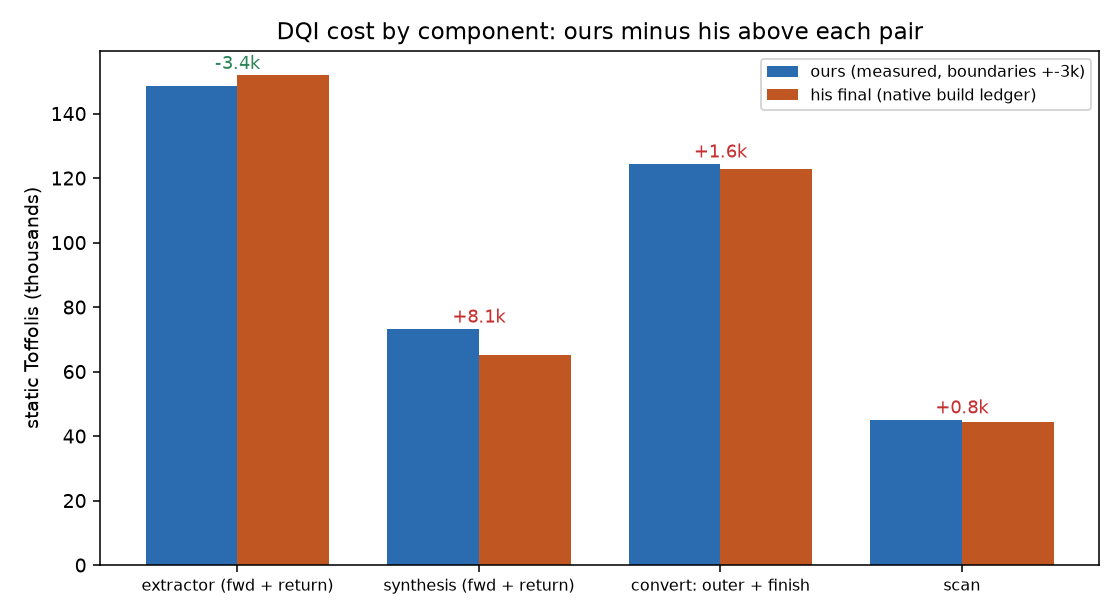
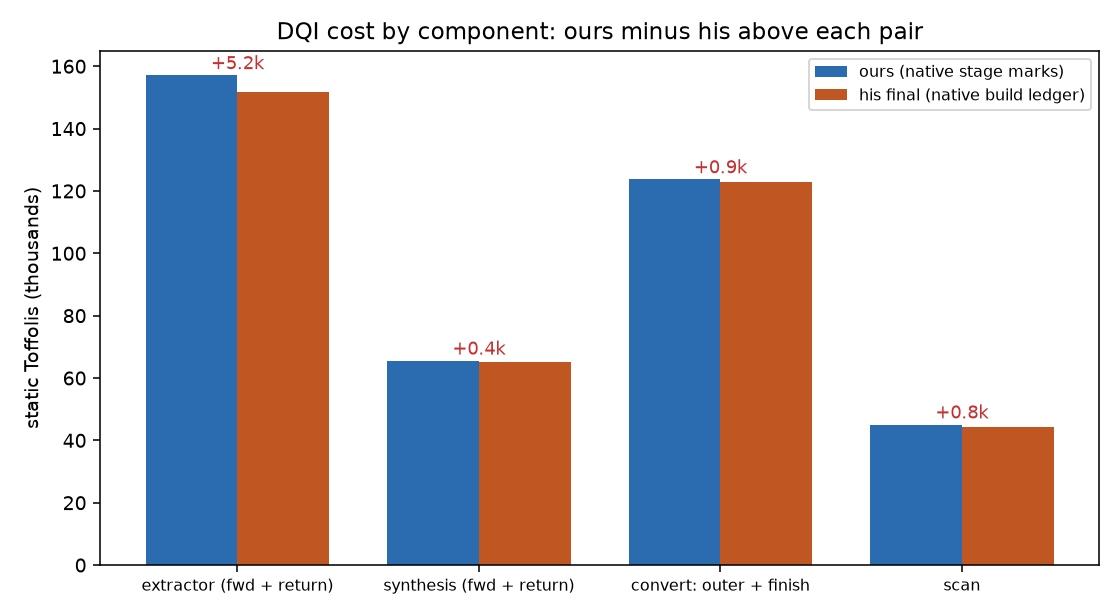
DQI: native per-stage ledger (stage marks and per-tag Toffoli counts), exact gap decomposition against the best public builder (QCC-19) (#188)

diff --git a/src/dqi_gen/fixed.py b/src/dqi_gen/fixed.py
@@ -10,9 +10,11 @@ The scan is run without the syndrome-weight gauge (no position is skipped).
 
 from __future__ import annotations
 
+import json
 import pathlib
 import sys
 import types
+from collections.abc import Callable
 from typing import Any
 
 import kickmix as km  # type: ignore[import-not-found,unused-ignore]
@@ -65,53 +67,88 @@ def _seeded_backward(builder: Any, words: list[list[Any]], carry: list[Any], rec
 
 
 def build_decoder(
-    builder: Any, syndromes: list[Any], masks: list[Any], seeded: bool = True
+    builder: Any,
+    syndromes: list[Any],
+    masks: list[Any],
+    seeded: bool = True,
+    stage: Callable[[str], None] | None = None,
 ) -> dict[str, Any]:
-    """Append the decoder to `builder`; returns static numbers of the scan."""
+    """Append the decoder to `builder`; returns static numbers of the scan.
+
+    `stage(name)` is called after each stage when given (it does not change the circuit unless it emits tags).
+    """
     import additive_fft_phase_scan as scan  # type: ignore[import-not-found]
     import night_outer as outer  # type: ignore[import-not-found]
     import projective_finish as finish  # type: ignore[import-not-found]
 
+    def mark(name: str) -> None:
+        if stage is not None:
+            stage(name)
+
     scan.syndrome_gauge_plan = lambda: types.SimpleNamespace(selected=())
     from dqi_gen.tower import apply_matrix_inplace
 
+    mark("start")
     flat = [q for reg in syndromes for q in reg]
     fwd, inv = thiele_decoder.geometry_columns()
     apply_matrix_inplace(builder, flat, fwd)
+    mark("geometry_fwd")
     words = [list(flat[24 * i : 24 * i + 24]) for i in range(35)]
     carry = list(builder.alloc_qubits(24))
     builder.x(carry[0])
     rec = extract.forward(builder, words, carry)
+    mark("extract_fwd")
     if seeded:
         n_list, d_list, state = _seeded_forward(builder, words, carry, rec)
     else:
         flag = rec.tail.current
         n_list, d_list, records, one = synth.forward(builder, words, flag)
+    mark("synthesis_fwd")
     out = outer.emit_prefix(builder, d_list, n_list, fused=False)
+    mark("outer_fwd")
     fin = finish.emit_prefix(builder, d_list, n_list)
+    mark("finish_fwd")
     padded = list(masks) + [None] * (4095 - len(masks))
     info = scan.emit(builder, d_list, n_list, padded, positions=len(masks))
+    mark("scan")
     finish.emit_closing(builder, d_list, n_list, fin)
+    mark("finish_return")
     outer.emit_closing(builder, d_list, n_list, (), out)
+    mark("outer_return")
     if seeded:
         _seeded_backward(builder, words, carry, rec, state)
+        mark("synthesis_return")
         import raw_query_extractor as rq  # type: ignore[import-not-found]
 
         rq.emit_closing(builder, words, carry, rec)
     else:
         synth.backward(builder, flag, words, records, one)
+        mark("synthesis_return")
         extract.backward(builder, words, carry, rec)
+    mark("extract_return")
     builder.x(carry[0])
     builder.free(km.array(carry))
     apply_matrix_inplace(builder, flat, inv)
+    mark("geometry_return")
     return dict(info)
 
 
-def build_circuit(m: int, n: int, degree: int) -> Any:
+def build_circuit(m: int, n: int, degree: int, stage_log: str | None = None) -> Any:
+    """The decoder circuit. With `stage_log` (a JSON path) the build also emits one `stage:<name>` INFO_TAG
+    per stage and writes the allocated-qubit count at each mark there; without it the circuit is unchanged."""
     if (n, degree) != (70, 12):
         raise ValueError("the decoder is built for n = 70 syndromes over GF(2^12)")
     builder = km.CircuitBuilder()
     syndromes = [builder.create_quantum_register(degree, name=f"S{i}") for i in range(n)]
     masks = [builder.create_classical_register(degree, name=f"E{j}") for j in range(m)]
-    build_decoder(builder, syndromes, masks)
+    marks: list[dict[str, Any]] = []
+
+    def stage(name: str) -> None:
+        builder.info_tag(f"stage:{name}")
+        marks.append({"stage": name, "allocated_Q": builder.num_allocated_qubits})
+
+    build_decoder(builder, syndromes, masks, stage=stage if stage_log else None)
+    if stage_log:
+        with open(stage_log, "w") as f:
+            json.dump(marks, f, indent=1)
     return builder.finish_circuit()

diff --git a/analysis/dqi_figures.py b/analysis/dqi_figures.py
@@ -32,7 +32,7 @@ def stage_ledger(d: dict) -> plt.Figure:  # type: ignore[type-arg]
     fig, ax = plt.subplots(figsize=(8, 4.4))
     x = range(len(names))
     w = 0.38
-    ax.bar([i - w / 2 for i in x], ours, w, label="ours (measured, boundaries +-3k)", color=OURS)
+    ax.bar([i - w / 2 for i in x], ours, w, label="ours (native stage marks)", color=OURS)
     ax.bar([i + w / 2 for i in x], theirs, w, label="his final (native build ledger)", color=THEIRS)
     for i, (o, t) in enumerate(zip(ours, theirs, strict=True)):
         ax.text(i, max(o, t) + 2, f"{o - t:+.1f}k", ha="center", fontsize=9, color=BAD if o > t else GOOD)
@@ -40,6 +40,25 @@ def stage_ledger(d: dict) -> plt.Figure:  # type: ignore[type-arg]
     ax.set_ylabel("static Toffolis (thousands)")
     ax.set_title("DQI cost by component: ours minus his above each pair")
     ax.legend(fontsize=8)
+    fig.tight_layout()
+    return fig
+
+
+def ours_stages(d: dict) -> plt.Figure:  # type: ignore[type-arg]
+    s = d["ours_native_stages"]["stages"]
+    s = [x for x in s if x["stage"] not in {"start", "geometry_fwd", "geometry_return"}]
+    names = [x["stage"].replace("_", " ") for x in s]
+    vals = [x["toffoli"] / 1000 for x in s]
+    colors = [GOOD if "return" in x["stage"] else OURS for x in s]
+    fig, ax = plt.subplots(figsize=(8, 4.6))
+    ax.barh(range(len(s)), vals, color=colors)
+    for i, (v, x) in enumerate(zip(vals, s, strict=True)):
+        ax.text(v + 0.8, i, f"{v:.1f}k  Q={x['allocated_Q']}", va="center", fontsize=8)
+    ax.set_yticks(range(len(s)), names, fontsize=8)
+    ax.invert_yaxis()
+    ax.set_xlim(0, max(vals) * 1.3)
+    ax.set_xlabel("static Toffolis per stage (narrow instance; scan here is 71 positions, full is 45.0k)")
+    ax.set_title("Our circuit by stage, native marks: forward (blue) and return (green)")
     fig.tight_layout()
     return fig
 
@@ -156,6 +175,7 @@ def j_min_sweep(d: dict) -> plt.Figure:  # type: ignore[type-arg]
 
 FIGURES = {
     "dqi-stage-ledger": stage_ledger,
+    "dqi-ours-stages": ours_stages,
     "dqi-qubit-timeline": qubit_timeline,
     "dqi-v7-waterfall": patch_waterfall,
     "dqi-profile-diff": profile_diff,

diff --git a/src/dqi_gen/instances.py b/src/dqi_gen/instances.py
@@ -61,8 +61,9 @@ def min_shots(log2_delta: float = LOG2_DELTA) -> int:
     return math.ceil(need / BATCH) * BATCH
 
 
-def build(generator: str, inst: Instance) -> Any:
-    """The decoder circuit for `inst` from the named generator (`reference` or `divstep`)."""
+def build(generator: str, inst: Instance, stage_log: str | None = None) -> Any:
+    """The decoder circuit for `inst` from the named generator. `stage_log` (generator `fixed` only) tags the
+    circuit per stage and writes the allocated qubits at each stage mark to that JSON file."""
     builders: dict[str, Callable[[int, int, int], Any]] = {}
     builders["reference"] = lambda m, n, b: host.reference().build_reference_circuit(m, n, b)
 
@@ -92,7 +93,7 @@ def build(generator: str, inst: Instance) -> Any:
     builders["thiele"] = thiele
 
     def fixed(m: int, n: int, b: int) -> Any:
-        return importlib.import_module("dqi_gen.fixed").build_circuit(m, n, b)
+        return importlib.import_module("dqi_gen.fixed").build_circuit(m, n, b, stage_log=stage_log)
 
     builders["fixed"] = fixed
     if generator not in builders:
@@ -127,10 +128,16 @@ def main() -> None:
     p.add_argument("--shots", type=int, default=None)
     p.add_argument("--salts", type=int, default=1, help="verify under this many salts (build once)")
     p.add_argument("--save", help="also write the circuit here as .kmb (binary)")
+    p.add_argument(
+        "--stage-log",
+        help="generator fixed: tag the circuit per stage and write allocated qubits per stage here (JSON)",
+    )
     p.add_argument("--sha", action="store_true", help="print the sha256 of the .kmb file")
     a = p.parse_args()
     inst = INSTANCES[a.instance]
-    circuit = build(a.gen, inst)
+    if a.stage_log and a.gen != "fixed":
+        raise SystemExit("--stage-log needs --gen fixed")
+    circuit = build(a.gen, inst, stage_log=a.stage_log)
     digest = None
     if a.sha or a.save:
         with tempfile.TemporaryDirectory() as tmp:

diff --git a/src/dqi_gen/study.py b/src/dqi_gen/study.py
@@ -31,6 +31,8 @@ def scan(lines: Iterable[str], window: int = 200_000, block: int = 12) -> dict[s
     tof_touch: collections.Counter[int] = collections.Counter()
     wins: list[dict[str, Any]] = []
     tags: list[tuple[int, str]] = []
+    tag_cum: list[tuple[str, int, int]] = []  # (tag, instruction index, Toffoli-like gates so far)
+    total_tof = 0
     cur_tof = 0
     cur_ids: set[int] = set()
     stack: list[str] = []
@@ -54,6 +56,7 @@ def scan(lines: Iterable[str], window: int = 200_000, block: int = 12) -> dict[s
                     stack.pop()
                 if len(tags) < 400:
                     tags.append((i, name))
+                    tag_cum.append((name, i, total_tof))
         elif op not in ("APPEND_TO_REGISTER", "REGISTER"):
             ids = [int(x) for x in QRE.findall(line)]
             for q in ids:
@@ -67,6 +70,7 @@ def scan(lines: Iterable[str], window: int = 200_000, block: int = 12) -> dict[s
                     prec["toffoli"] += 1
             if op in TOFFOLI:
                 cur_tof += 1
+                total_tof += 1
                 for q in ids:
                     tof_touch[q] += 1
         if (i + 1) % window == 0:
@@ -87,6 +91,8 @@ def scan(lines: Iterable[str], window: int = 200_000, block: int = 12) -> dict[s
         "windows": wins,
         "blocks": {str(k): v for k, v in blocks.items()},
         "tags": tags,
+        "tag_cum": tag_cum,
+        "total_toffoli": total_tof,
         "paths": {
             k: {"enter": v["enter"], "toffoli": v["toffoli"], "first": v["first"], "qubits": len(v["ids"])}
             for k, v in paths.items()

diff --git a/tests/unit/test_analysis_dqi.py b/tests/unit/test_analysis_dqi.py
@@ -21,7 +21,16 @@ def test_data_is_internally_consistent() -> None:
         t = d["totals"][key]
         assert m[side]["CCX"] + m[side]["CCZ"] + m[side]["CSWAP"] == t["toffoli_like"]
     comps = d["stage_ledger"]["components"]
-    assert abs(sum(c["ours"] for c in comps) - d["stage_ledger"]["ours_total"]) < 600
+    assert (
+        sum(c["ours"] for c in comps)
+        == d["stage_ledger"]["ours_total"]
+        == d["totals"]["ours"]["toffoli_like"]
+    )
+    n = d["ours_native_stages"]
+    assert sum(x["toffoli"] for x in n["stages"]) == n["total_narrow"]
+    assert (
+        n["total_narrow"] - n["scan_narrow"] + n["scan_full_instance"] == d["totals"]["ours"]["toffoli_like"]
+    )
     assert sum(c["theirs_v2"] for c in comps) == d["stage_ledger"]["theirs_v2_total"]
     assert sum(c["theirs_final"] for c in comps) == d["stage_ledger"]["theirs_final_total"]
     assert d["stage_ledger"]["theirs_final_total"] == d["totals"]["theirs"]["toffoli_like"]

diff --git a/tests/unit/test_dqi_study.py b/tests/unit/test_dqi_study.py
@@ -19,3 +19,17 @@ def test_scan_counts_toffolis_and_blocks() -> None:
     assert sum(w["toffoli"] for w in r["windows"]) == 2
     assert r["blocks"]["0"]["toffoli_touches"] == 4  # q0 q1 q2 (CCX) and q3 (CSWAP)
     assert r["tags"] == [(0, "@enter:a")]
+
+
+def test_tag_cum_counts_toffolis_between_tags() -> None:
+    lines = [
+        'INFO_TAG "stage:a"\n',
+        "CCX q0 q1 q2\n",
+        "CX q0 q1\n",
+        'INFO_TAG "stage:b"\n',
+        "CCZ q0 q1 q2\n",
+        "CSWAP q0 q1 q2\n",
+    ]
+    r = scan(lines)
+    assert [(n, c) for n, _, c in r["tag_cum"]] == [("stage:a", 0), ("stage:b", 1)]
+    assert r["total_toffoli"] == 3

diff --git a/docs/experiments/dqi-syed-decode.md b/docs/experiments/dqi-syed-decode.md
@@ -13,8 +13,8 @@ Paths below are inside its `dqi_source/src/controller_work/`. Numbers behind eve
   the newer `after_v3` / `after_c5` lineage (`after_v3/integration_v7/v7_pipeline.py:28-80`).
 * [V] Three configuration choices we worried about are **not** the lever: `fused=False` (`v7_pipeline.py:288-289`), `j_min == 15`
   (`:278`), full-length scan with an adaptive 64-candidate gauge (`:281,294`).
-* [M][V] Against its final native ledger (our own container run, section 7): extractor+synthesis +4.8k T, convert +1.6k, scan +0.8k, which is
-  +7.1k of the 7.3k; the remainder is the error of our stage-boundary estimate.
+* [M][V] With native stage marks on our build (section 3) the gap is exact: extractor +5,225 T, synthesis +442, convert +897, scan +759, total
+  +7,323. The extractor is 71% of it. (An earlier estimate from the instruction profile put it in synthesis; its boundaries were wrong.)
 
 ## 1. Entry and structure [V]
 
@@ -39,26 +39,36 @@ Build cost [V]: its README says peak about 1 GB, about 3 minutes on an Apple M5,
 | extractor | first-3 retained-norm adapter, special charts, deferred inverses (`:56-63`, `:119-130`) | `raw_query_extractor` from the older lineage |
 | outer / convert | `transpose14` windows, handoff outer, paired and joint norm phases (`:34-41,64-69`) | `night_outer`, `projective_finish` |
 
-## 3. Per-component static Toffolis
+## 3. Per-component static Toffolis, native on both sides
 
-His component ledger is the one his own build prints (`build.json`, `/contract/source_ledger/components_static_T`) from our container run
-(section 7), total 384,003. Ours is the measured profile of `fixed.kmb` with stage boundaries estimated to about +-3k T, so only sums of
-adjacent components are robust.
+Ours comes from `fixed.py --stage-log` (section 7): the build emits one `stage:<name>` INFO_TAG after each stage, and `dqi_gen.study` counts the
+Toffoli-like gates between tags. Stages other than the scan do not depend on the number of positions, so the 71-position `narrow` instance gives
+them exactly; the full scan is 4,095 x 11 = 45,045. They sum to **391,326**, the known full total. His column is the ledger his own build prints
+(`build.json`, `/contract/source_ledger/components_static_T`, total 384,003, from our container run).
 
-| component | ours [M] | his final [V] | ours minus his |
+Reproduce ours: `QCC_DATA=data uv run python -m dqi_gen.instances --gen fixed --instance narrow --salts 0 --save X.kmb --stage-log marks.json`,
+then `uv run python -m dqi_gen.study X.kmb --out study.json` (`tag_cum` holds the cumulative count at each tag). Without `--stage-log` the build is
+unchanged (checked: the `narrow` circuit is byte-identical to `main`'s; the tagged one verifies with the same 890 qubits and no errors).
+
+| component | ours [M] | his [V] | ours minus his |
 |---|---:|---:|---:|
-| extractor, forward + return | 148,500 | 151,852 | -3,352 |
-| synthesis, forward + return | 73,200 | 65,076 | +8,124 |
-| convert (outer + finish) | 124,400 | 122,789 | +1,611 |
+| extractor, forward + return | 157,077 (73,919 + 83,158) | 151,852 | **+5,225** |
+| synthesis, forward + return | 65,518 (27,965 + 37,553) | 65,076 | +442 |
+| convert (outer + finish) | 123,686 (57,245 + 1,725 + 6,305 + 58,411) | 122,789 | +897 |
 | scan | 45,045 | 44,286 | +759 |
 | total | 391,326 | 384,003 | +7,323 |
 
-Extractor and synthesis together: ours 221,700, his 216,928, so **+4.8k**, which is the robust part (the two rows disagree in sign because
-our extract/synthesis boundary is an estimate). Convert is +1.6k and the scan +0.76k (the 69 positions his gauge skips). The three add to
-7.14k against the 7.32k total. Between his version-2 build (385,653) and the final one the extractor fell 739, the outer stage 922 and the
-scan rose 11, together the -1,650 of section 4.
+The two sides draw the extractor/synthesis boundary differently (his extractor row says "rolling gauge, padded seed"), so only
+extractor + synthesis together is strictly comparable: **+5,667 T, 77% of the gap**. Convert is +897 and the scan +759 (the 69 positions his gauge
+skips). Between his version-2 build (385,653) and the final one the extractor fell 739, the outer stage 922 and the scan rose 11 (section 4).
+
+Forward against return [M]: in our build the returns cost 24.6k more than the forwards (extract 83.2k against 73.9k, synthesis 37.6k against
+28.0k, finish 6.3k against 1.7k, outer 58.4k against 57.2k). His ledger does not split forward from return, so where his saving sits is not yet
+known; the extractor return is the largest single stage.
 
 ![Stage ledger](../img/analysis/dqi-stage-ledger.png)
+
+![Our stages](../img/analysis/dqi-ours-stages.png)
 
 ## 4. His final patches [V]
 
@@ -69,7 +79,7 @@ a predicate or phase is held, so they are good candidates for the "mechanical" m
 
 ![His v7 patches](../img/analysis/dqi-v7-waterfall.png)
 
-## 5. The Toffoli-free wrapper [M], and what it is [I]
+## 5. The Toffoli-free wrapper [M], and what it is [V]
 
 Both circuits were streamed once with `dqi_gen.study`. His has 11.2M instructions before the first Toffoli and 4.6M after the last; ours
 0.4M and 0.25M. The interior lines up (instructions per 10% of T are 5.4/5.4, 4.8/4.8, 3.8/3.8 and 3.2/3.2 million in the middle
@@ -107,7 +117,7 @@ unknown), so the script runs a copy of `build.sh` with `|| true` after it. The c
 `build.sh` is not edited. Before running anything we read the launchers and grepped all 258 Python files for network, deletion and dynamic
 execution (only `ast.literal_eval`, a method named `eval`, and one `exec` that compiles a function from the official verifier file).
 
-## 8. His stage map and qubit width [V]
+## 8. His stage map and qubit width [V], and ours [M]
 
 The build record keeps 432 stage marks with the builder's allocated-qubit count after each (`build.json`, `stages`). Order: gauge open (70
 `blocked_mask_shear`, 15 `adaptive64_histogram`, one weight-gauge mark; width 840), extract forward (35 `raw_query_prefix`, width 865),
@@ -116,9 +126,9 @@ synthesis return (34), extract return (35, falling to 864), gauge close (70 `blo
 peak of 889 is reached inside a stage and is not recorded. The marks carry no Toffoli counts, so his per-stage T still has to come from the
 ledger above or from a profile.
 
-Consequence [I]: his width is 865 for most of the circuit and 889 only transiently, while our `fixed.kmb` showed ids 840 to 889 live through the
-run. Whether ours could also drop below 890 for most stages is the next measurement (the same `num_allocated_qubits` read at each of our stage
-marks).
+Our own build reports 864 to 866 allocated qubits at its marks (`dqi-ours-stages.png`), the same as his 865, so the width profile is not a
+difference. The 890 against 889 is an in-stage peak on both sides: the extractor's own ledger says 864 data qubits plus 26 scratch. The remaining
+question is which stage holds each peak, which needs allocation read inside the stage and not only at its end.
 
 ![His qubit timeline](../img/analysis/dqi-qubit-timeline.png)
 
@@ -127,10 +137,13 @@ marks).
 1. **Match (path A), mostly done.** His pipeline is reproduced byte for byte in a container (section 7) and used as the oracle. We keep it
    out of git (its closure is 52 MB with hash-pinned records) and run it through `scripts/dqi_reference_build.sh`; the 58 modules already
    vendored stay as they are. Still to do: our own stage marks (below), then moving our generator onto his newer lineage.
-2. **Own the parts we change (path B).** For each module we modify, rewrite it from scratch in `src/dqi_gen`, keep the vendored copy as
+2. **First module: the extractor.** It is 71% of the gap. His final extractor binds the newer first-three retained-norm adapter and deferred
+   inverses (section 2); ours is the older `raw_query_extractor`. Move that stage first, keep the old one as the oracle, and require the
+   per-stage count to fall and the official verify to pass at 10 salts.
+3. **Own the parts we change (path B).** For each module we modify, rewrite it from scratch in `src/dqi_gen`, keep the vendored copy as
    the reference oracle, and require identical Toffoli count and a passing official verify before swapping it in.
-3. **Exceed.** After the match, candidates (all estimates [G]): a lower-rank GF(2^24) product (about 1.3k T per unit of rank), a
+4. **Exceed.** After the match, candidates (all estimates [G]): a lower-rank GF(2^24) product (about 1.3k T per unit of rank), a
    qubit-for-Toffoli trade in the extractor scratch (1 qubit is 879 T), and the open synthesis gap that his v3 base hides. Every step is
    measured as delta T, delta Q and delta cost at 10 salts, and added to `analysis/numbers/dqi.json`.
 
-Not yet done: per-stage marks and allocated-qubit reads on our own build (needs the `stage=` hook), and provenance rows for the ideas above.
+Not yet done: allocation read inside stages (for the 890 peak), the same marks on the full instance, and provenance rows for the ideas above.
